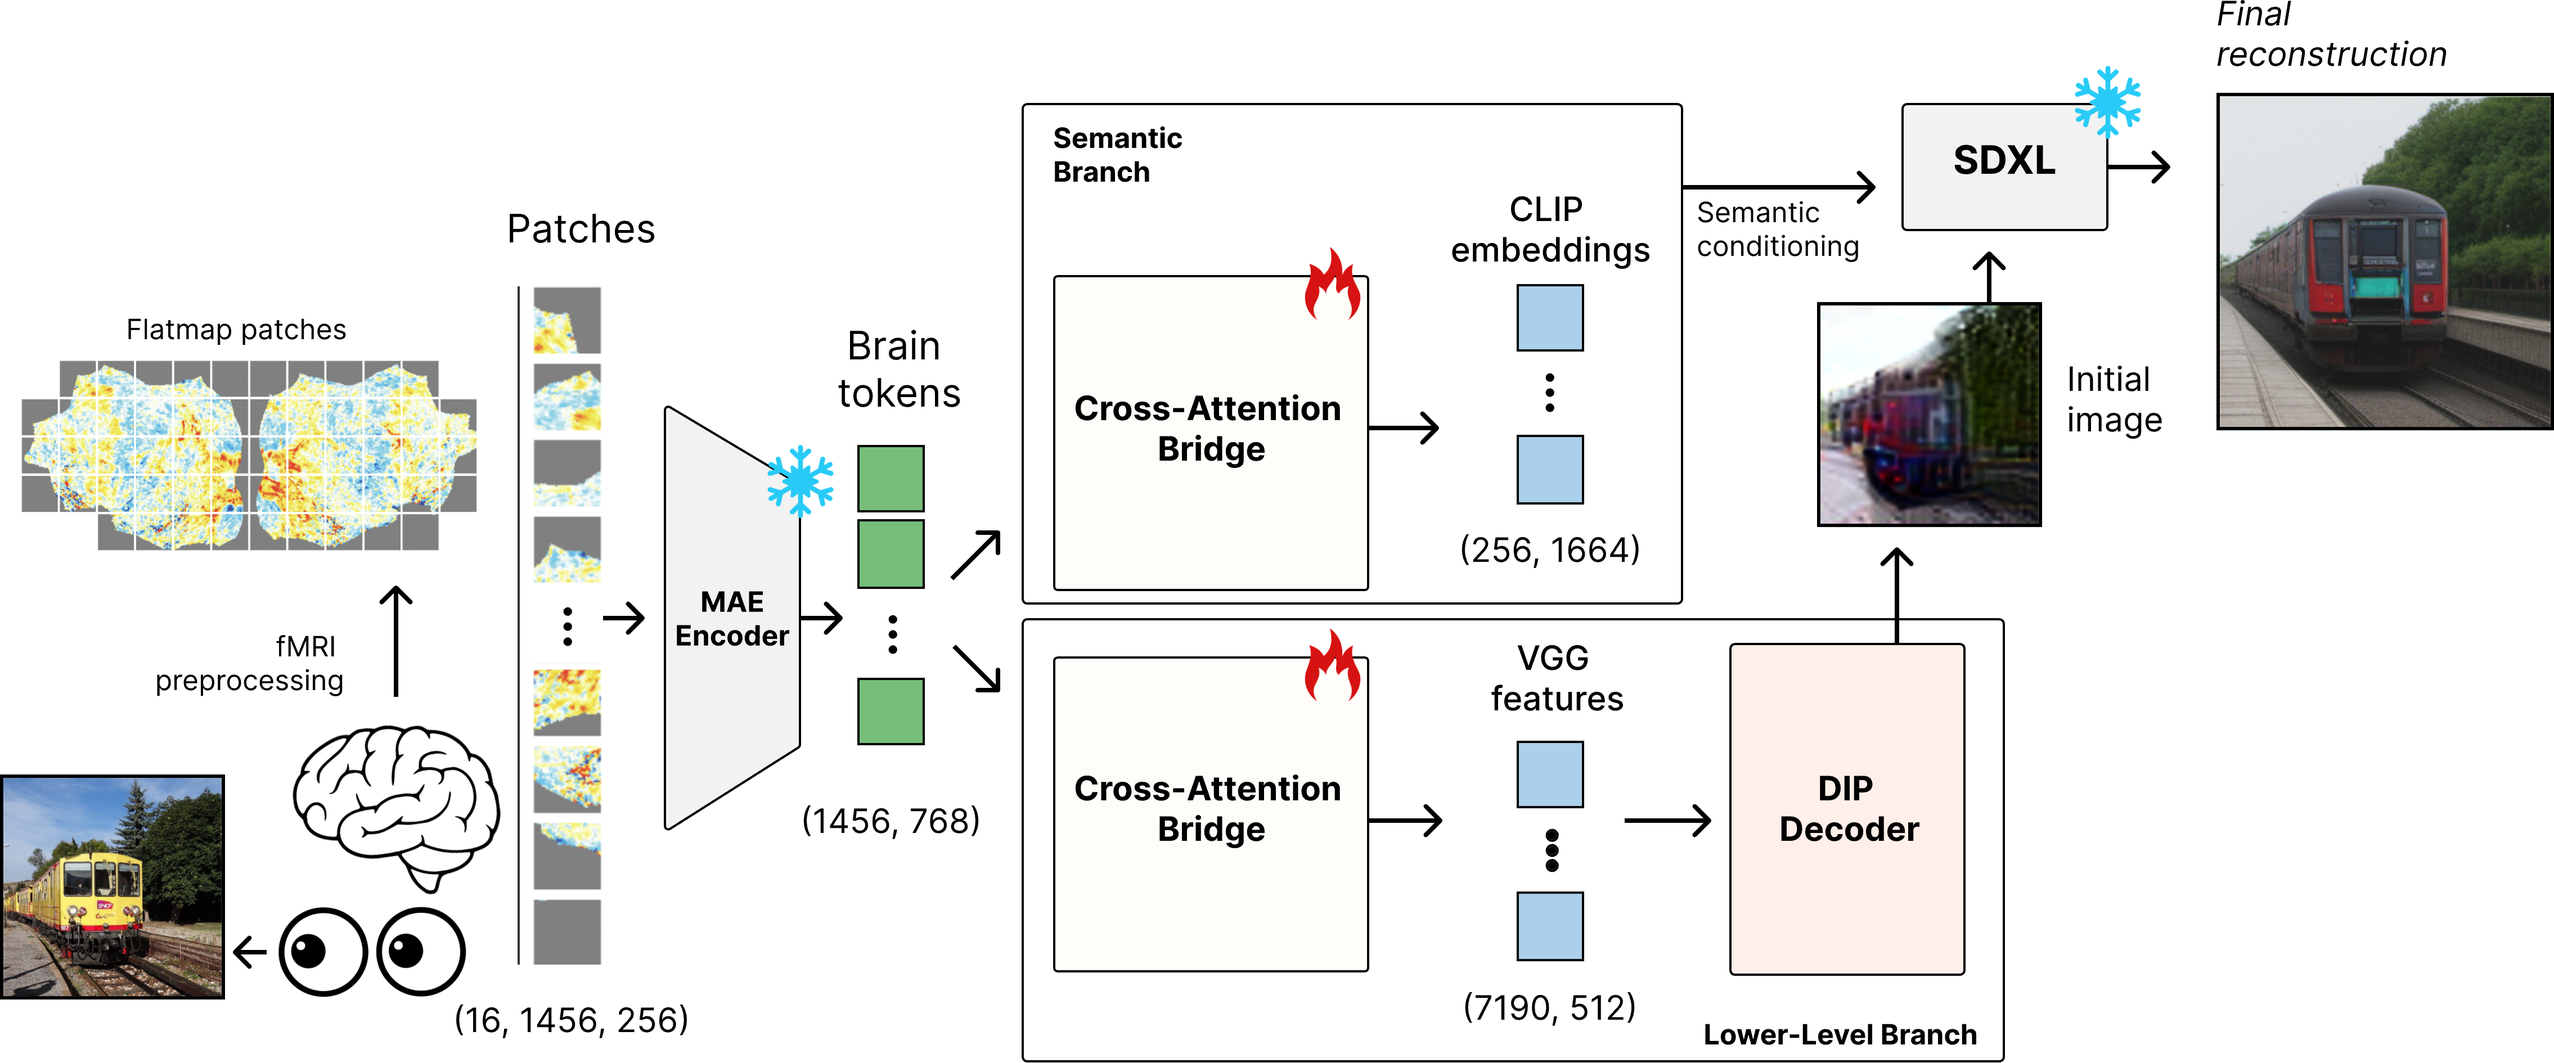
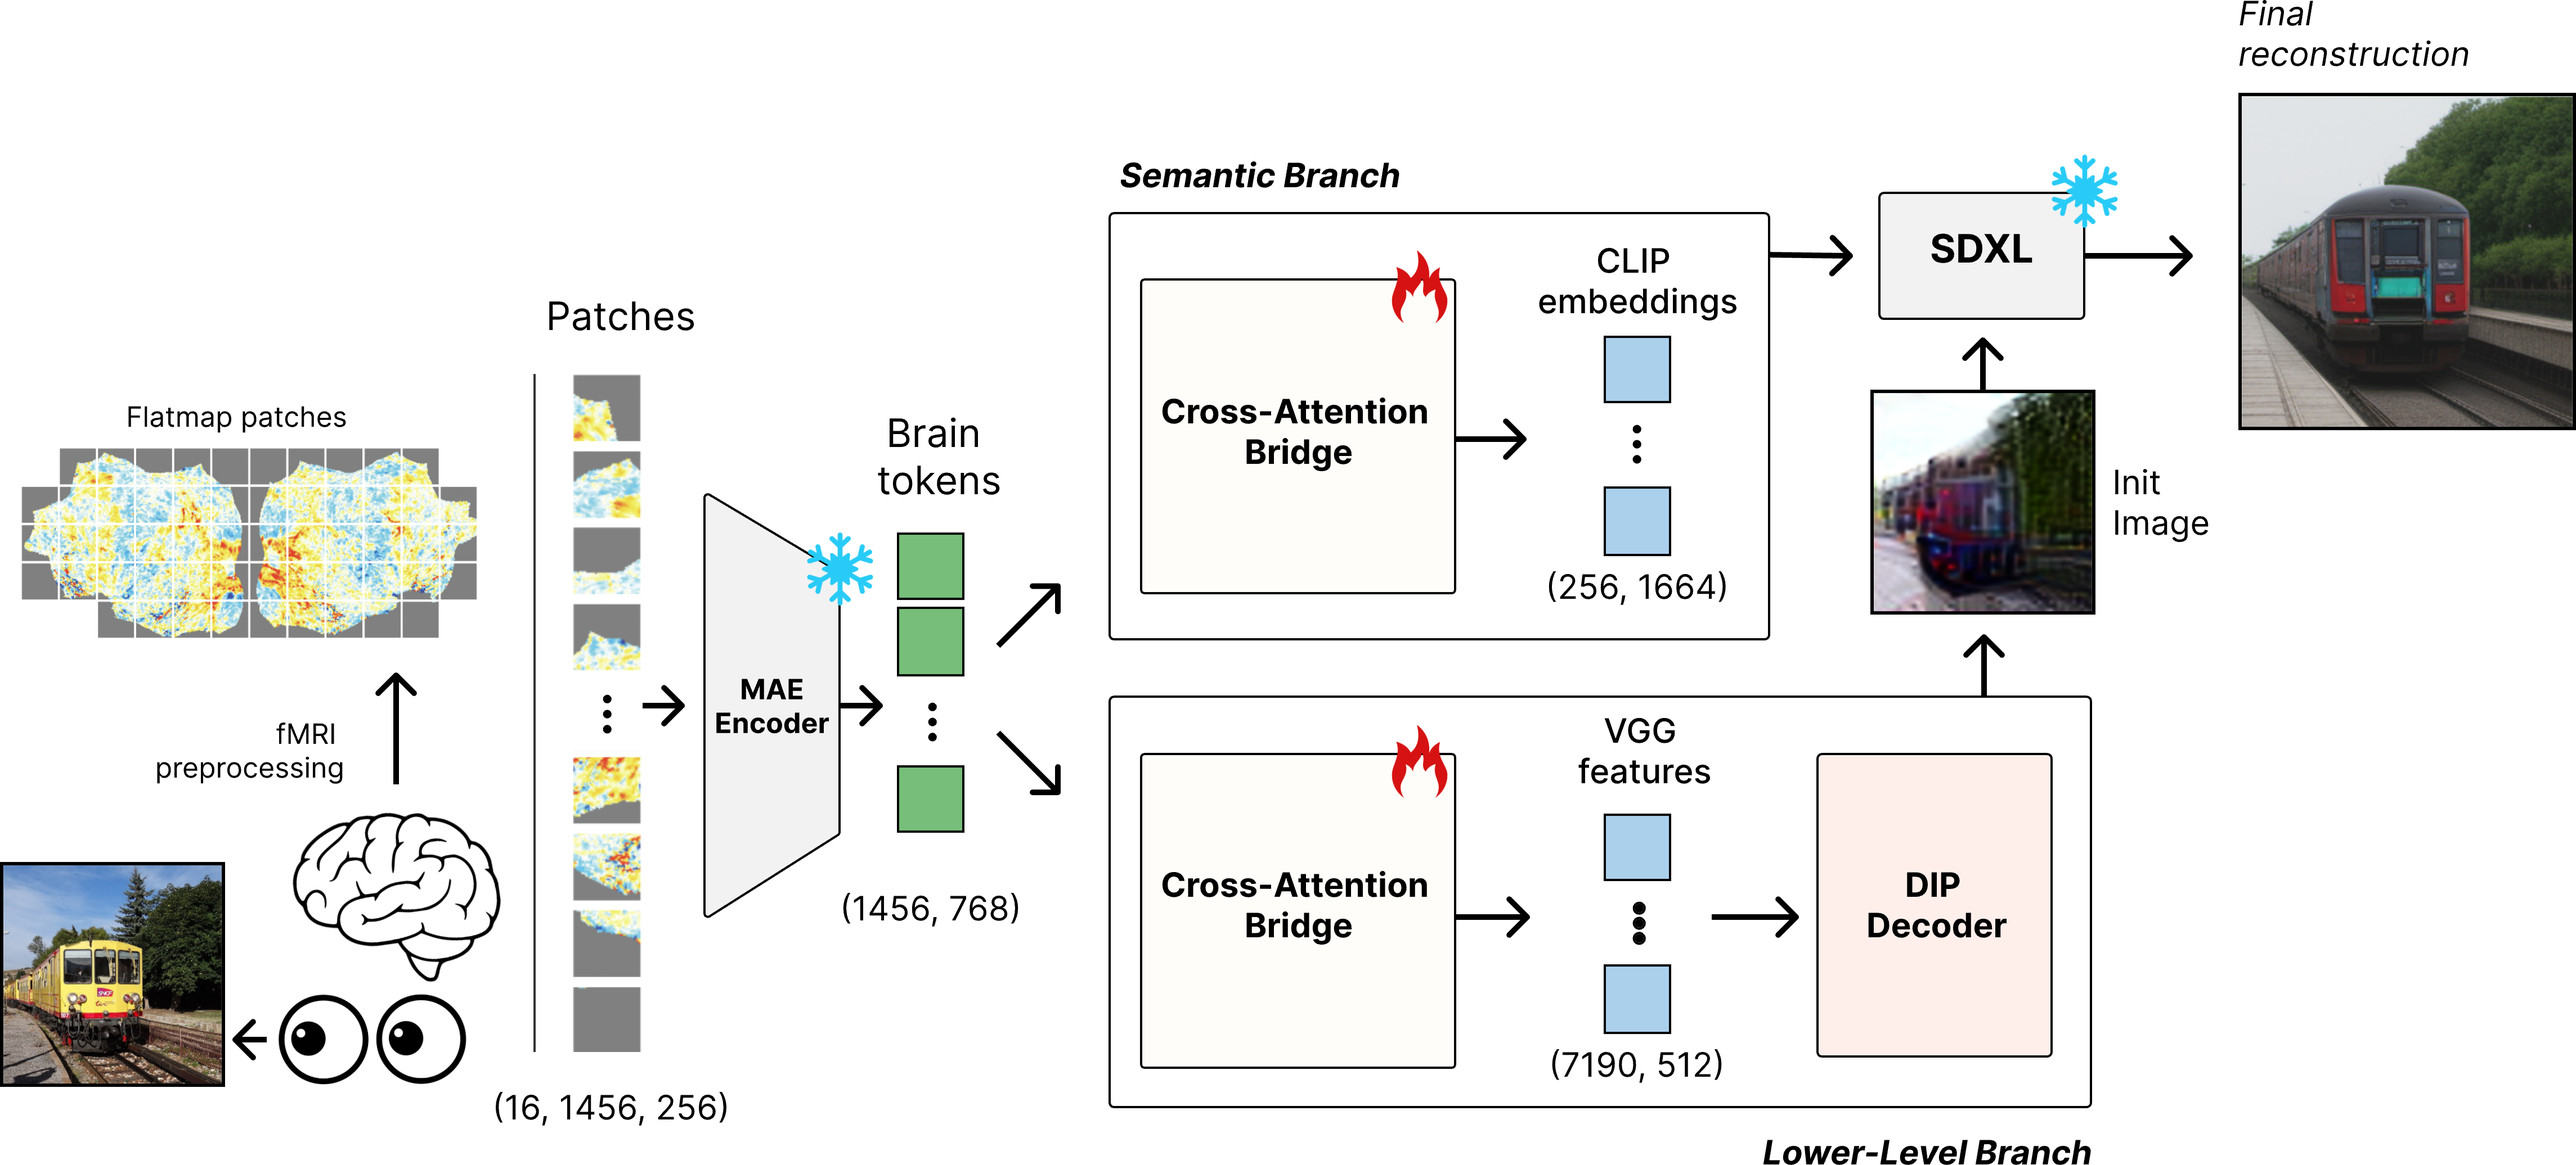
update

diff --git a/wacv_paper/sec/4_results.tex b/wacv_paper/sec/4_results.tex
@@ -24,28 +24,28 @@
 % \textit{Takagi \& Nishimoto (2023) \cite{10205187}}
 % & 0.239 & 0.377 & 78.47\% & 85.52\%
 % & 83.24\% & 82.64\% & 0.817 & 0.510 \\
-\textit{Brain-Diffuser \cite{ozcelik2023brain}}
+\textit{Brain-Diffuser (2023) \cite{ozcelik2023brain}}
 & 0.305 & 0.367 & 96.7\% & 97.4\%
 & 87.8\% & 92.5\% & 0.768 & 0.415 \\
-\textit{MindEye \cite{scotti2023reconstructingmindseyefmritoimage}}
+\textit{MindEye (2023) \cite{scotti2023reconstructingmindseyefmritoimage}}
 & \textbf{0.390} & 0.337 & 97.4\% & 98.7\%
 & 94.5\% & 94.6\% & 0.630 & 0.358 \\
-\textit{DREAM \cite{xia2024dreamvisualdecodingreversing}}
+\textit{DREAM (2024) \cite{xia2024dreamvisualdecodingreversing}}
 & 0.288 & 0.338 & 95.0\% & 97.5\%
 & 94.8\% & \underline{95.2\%} & 0.638 & 0.413 \\
-\textit{MindEye2$^\dagger$ \cite{scotti2024mindeye2sharedsubjectmodelsenable}}
+\textit{MindEye2$^\dagger$ (2024) \cite{scotti2024mindeye2sharedsubjectmodelsenable}}
 & 0.374 & \textbf{0.439} & 97.8\% & 99.1\%
 & \underline{96.2\%} & 93.6\% & \underline{0.609} & 0.338 \\
-\textit{NeuroPictor$^\dagger$ \cite{huo2024neuropictorrefiningfmritoimagereconstruction}}
+\textit{NeuroPictor$^\dagger$ (2024) \cite{huo2024neuropictorrefiningfmritoimagereconstruction}}
 & 0.277 & 0.385 & \textbf{98.8\%} & \underline{99.3\%}
 & \underline{96.2\%} & 94.5\% & 0.619 & \underline{0.334} \\
-\textit{UMBRAE$^\dagger$ \cite{xia2024umbraeunifiedmultimodalbrain}}
+\textit{UMBRAE$^\dagger$ (2024) \cite{xia2024umbraeunifiedmultimodalbrain}}
 & 0.293 & 0.345 & 95.8\% & 97.2\%
 & 92.6\% & 93.9\% & 0.690 & 0.391 \\
-\textit{MindTuner$^\dagger$ \cite{gong2024mindtunercrosssubjectvisualdecoding}}
+\textit{MindTuner$^\dagger$ (2024) \cite{gong2024mindtunercrosssubjectvisualdecoding}}
 & 0.371 & \underline{0.428} & 97.7\% & \underline{99.3\%}
 & \textbf{96.4\%} & 94.3\% & \textbf{0.601} & \textbf{0.331} \\
-\textit{NeuralDiffuser \cite{Li_2025}}
+\textit{NeuralDiffuser (2025) \cite{Li_2025}}
 & \underline{0.378} & 0.330 & \underline{98.3\%} & \textbf{99.4\%}
 & 95.8\% & \textbf{95.4\%} & 0.642 & 0.380 \\
 \midrule
